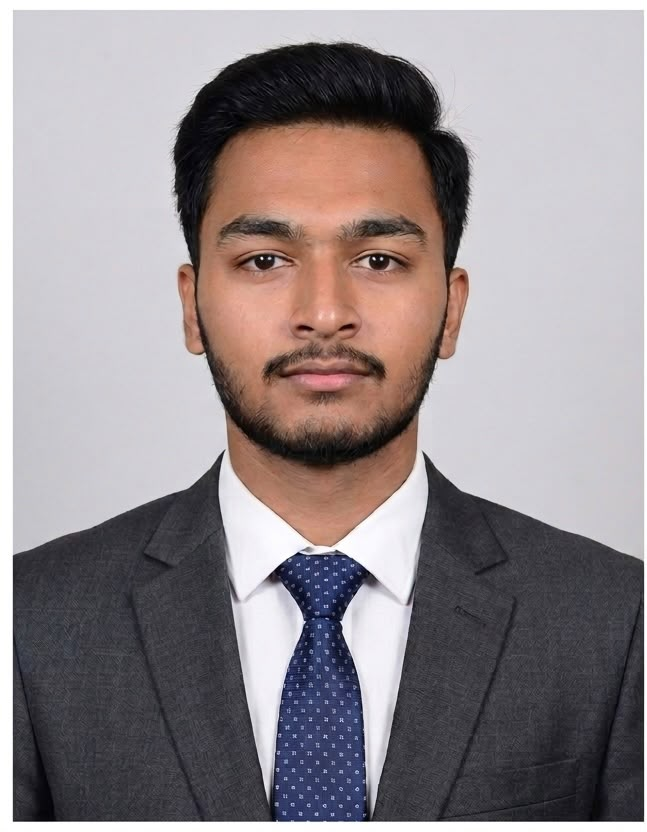
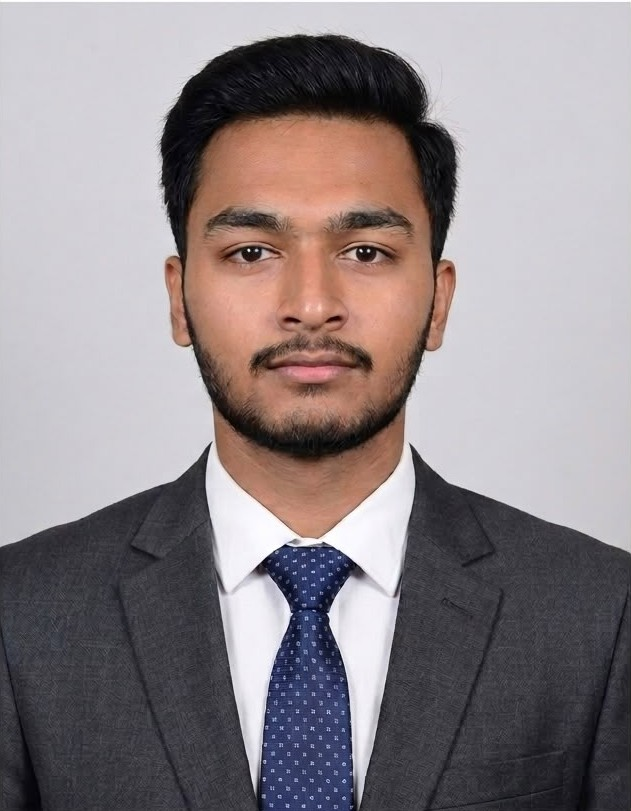
enquiry form

diff --git a/src/Contact.tsx b/src/Contact.tsx
@@ -1,5 +1,6 @@
 import React, { useState } from "react";
 import { Phone, Mail, MapPin, Send } from "lucide-react";
+import emailjs from "@emailjs/browser";
 
 const Contact: React.FC = () => {
   const [formData, setFormData] = useState({
@@ -18,42 +19,45 @@ const Contact: React.FC = () => {
   };
 
   const handleSubmit = async (e: React.FormEvent) => {
-    e.preventDefault();
-    setLoading(true);
-    setStatus({ type: "", message: "" });
+  e.preventDefault();
 
-    try {
-      const response = await fetch("https://gemconsultersbackend.onrender.com/api/contact", {
-        method: "POST",
-        headers: { "Content-Type": "application/json" },
-        body: JSON.stringify(formData),
-      });
+  setLoading(true);
+  setStatus({ type: "", message: "" });
 
-      const result = await response.json();
+  try {
+    await emailjs.send(
+      import.meta.env.VITE_EMAILJS_SERVICE_ID,
+  import.meta.env.VITE_EMAILJS_TEMPLATE_ID,
+      {
+        from_name: formData.name,
+        from_email: formData.email,
+        phone: formData.phone,
+        message: formData.message,
+      },
+      import.meta.env.VITE_EMAILJS_PUBLIC_KEY
+    );
 
-      if (response.ok) {
-        setStatus({ type: "success", message: "Message sent successfully!" });
-        setFormData({
-          name: "",
-          email: "",
-          phone: "",
-          message: "",
-        });
-      } else {
-        setStatus({
-          type: "error",
-          message: result.error || "Failed to send message.",
-        });
-      }
-    } catch (error) {
-      setStatus({
-        type: "error",
-        message: "Network error. Please try again later.",
-      });
-    }
+    setStatus({
+      type: "success",
+      message: "Your enquiry has been sent successfully!",
+    });
 
-    setLoading(false);
-  };
+    setFormData({
+      name: "",
+      email: "",
+      phone: "",
+      message: "",
+    });
+
+  } catch (error) {
+    setStatus({
+      type: "error",
+      message: "Something went wrong. Please try again.",
+    });
+  }
+
+  setLoading(false);
+};
 
   return (
     <div className="py-16">

diff --git a/src/About.tsx b/src/About.tsx
@@ -235,13 +235,13 @@ const About: React.FC = () => {
         key={index}
         className="bg-white rounded-xl shadow-lg hover:shadow-xl transition-all duration-300 overflow-hidden"
       >
-        <div className="bg-gray-100 h-80 flex items-center justify-center">
-          <img
-            src={member.image}
-            alt={member.name}
-            className="max-h-full max-w-full object-contain"
-          />
-        </div>
+        <div className="bg-gray-100 flex justify-center pt-6">
+  <img
+    src={member.image}
+    alt={member.name}
+    className="w-64 h-80 object-cover rounded-lg shadow-md"
+  />
+</div>
 
         <div className="p-6 text-center">
           <h3 className="text-2xl font-semibold text-gray-900">